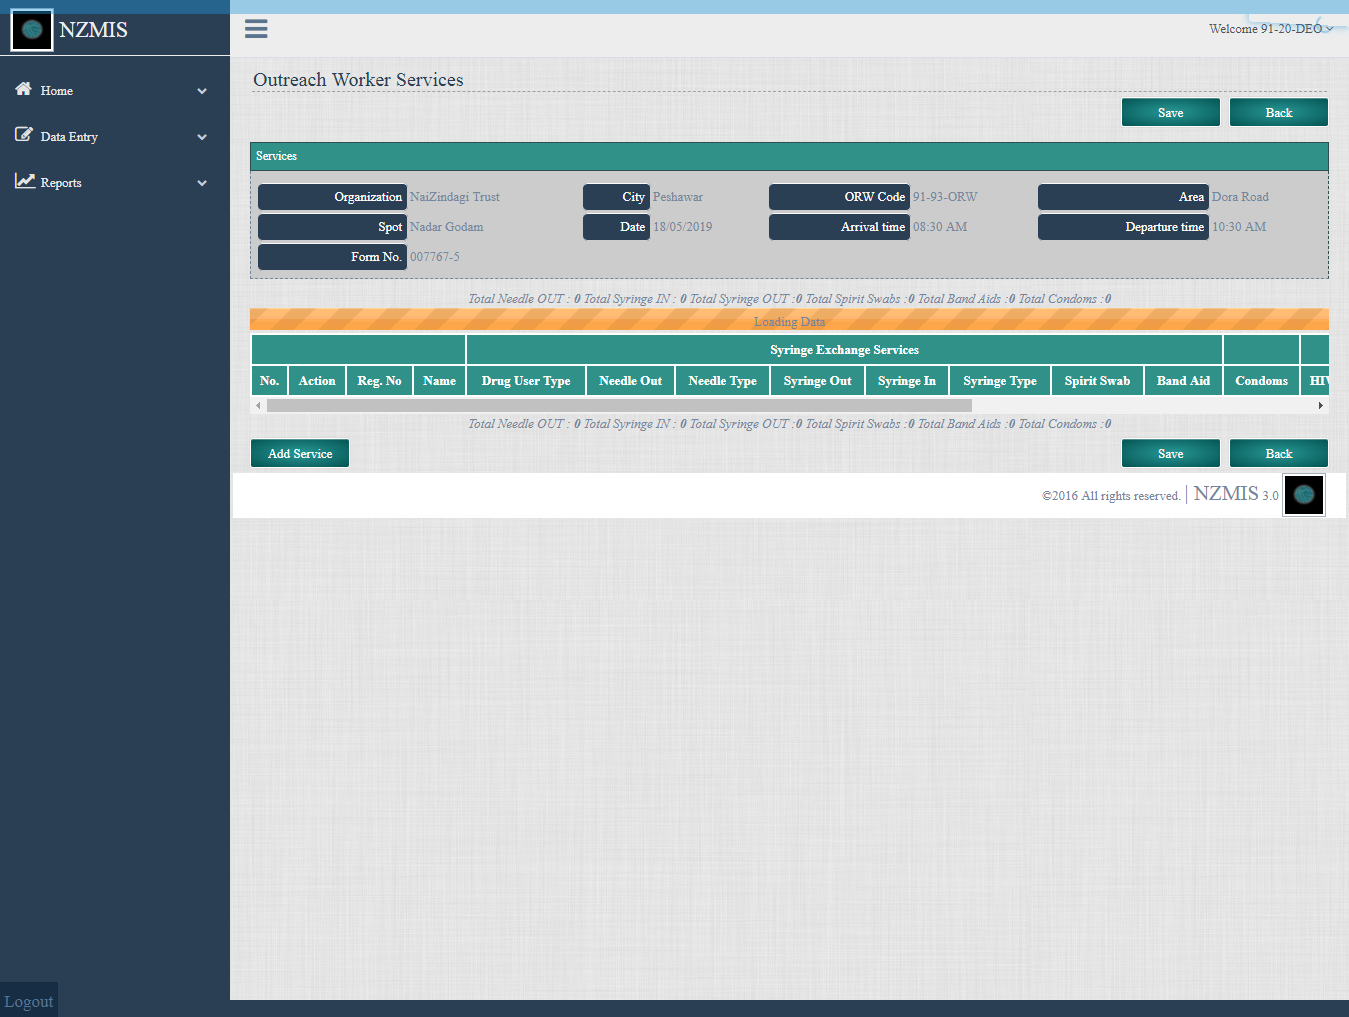
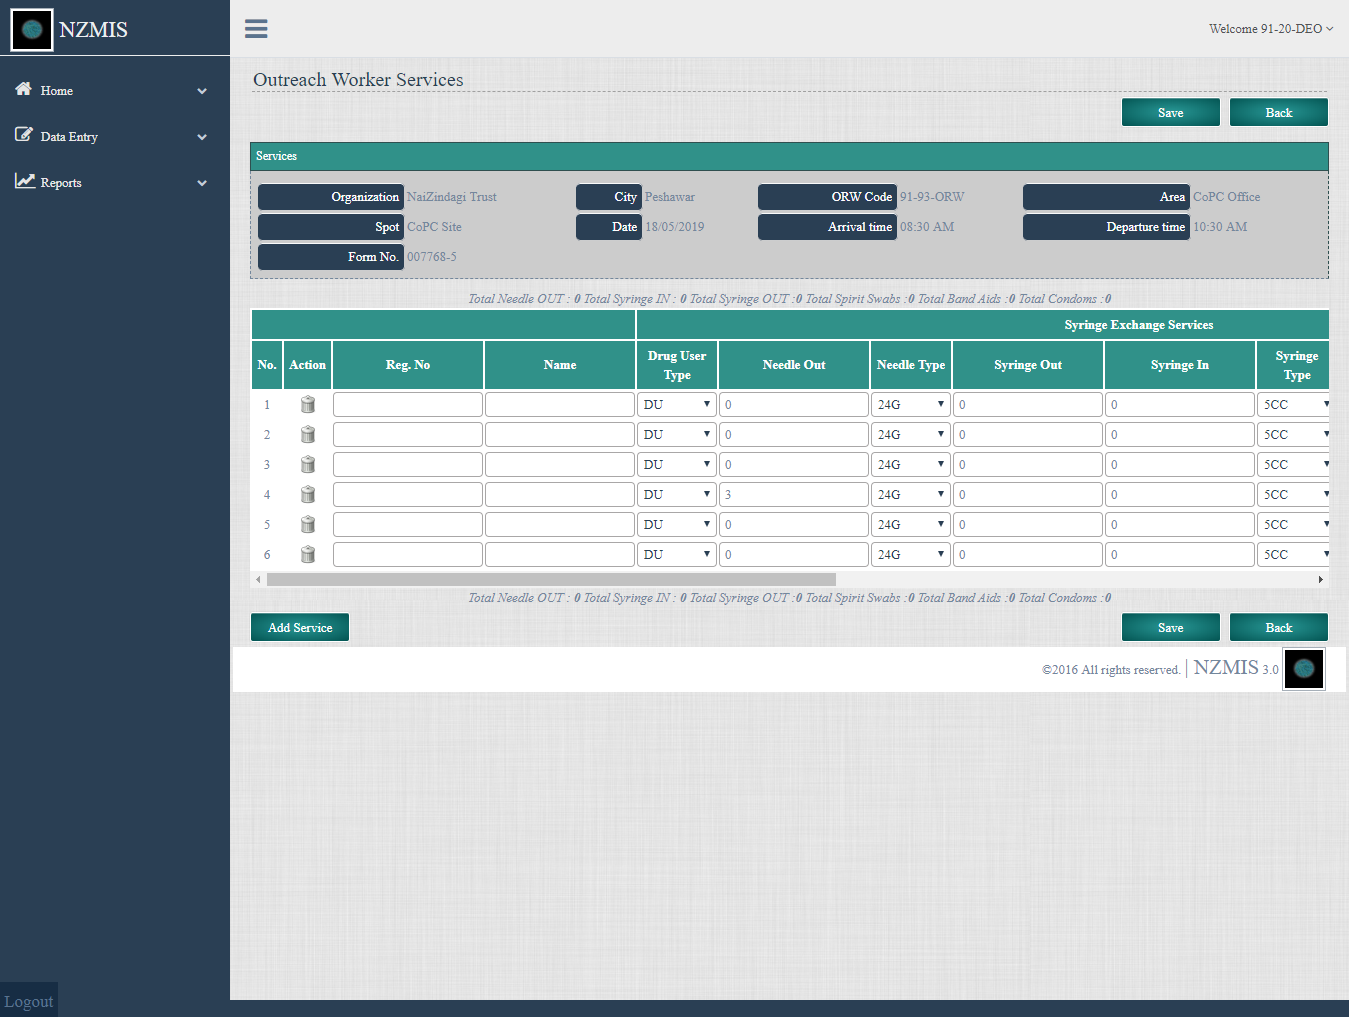
nzmis.js is working

diff --git a/nzmis.js b/nzmis.js
@@ -7,6 +7,7 @@ const BCCServices =require('./BCCServices.js');
     try{
 
         var url ='http://www.nzmis.com/';
+        var url2='secure/OutreachWorkerServices/RegisterEdit2.aspx?ID=1929080&no=6';
         const browser = await puppeteer.launch({headless:false,args: ['--start-maximized']});
         const page= await browser.newPage();
         await page.setViewport({ width: 1600, height: 900});
@@ -17,7 +18,7 @@ const BCCServices =require('./BCCServices.js');
         await page.click('.submit');
         //wait for Dashboard
         await page.waitFor(()=>!!document.querySelector('.countBox'));
-        url=url+'secure/OutreachWorkerServices/RegisterEdit2.aspx?ID=1926731';
+        url=url+url2;
         await page.goto(url);
         // await page.waitFor(2000);
         await page.waitFor('table.grid');
@@ -26,6 +27,7 @@ const BCCServices =require('./BCCServices.js');
             for(i=0; i<el.length; i++){
                 el[i].value=3; 
             }
+        
         });
 //  Now setting Needle Out Values here
         await page.$$eval("input[data-bind='value: SyringeOut']",el=>{
@@ -36,7 +38,7 @@ const BCCServices =require('./BCCServices.js');
 // Setting Syring Type to 3CC
         await page.$$eval("select[name='ctl00$cphRightContent$ddlSringeType']",el=>{
             for(i=0; i<el.length; i++){
-                el[i].value="5CC"; 
+                el[i].value="3CC"; 
             }
         });
 
@@ -80,7 +82,7 @@ const BCCServices =require('./BCCServices.js');
            
         await page.waitFor(2000);
         await page.screenshot({ path: 'nzmisAutomation.png', fullPage: true });
-        await browser.close();
+        // await browser.close();
     }catch(e){
         console.log('our Error',e );
     }

diff --git a/ex5.js b/ex5.js
@@ -42,19 +42,27 @@ const puppeteer = require('puppeteer');
             //   });
             // Wait for the Table/Form to appear
 
-            await page.waitForSelector("input[data-bind='value: NeedleOut']").then(()=>{
+            await page.waitForSelector("input[data-bind='value: NeedleOut']");
+             
+            await page.$$eval("input[data-bind='value: NeedleOut']",el=>{
+                console.log(typeof el);
+                    el[3].value=3;
+
+                
+             
+            });
                 // var el = document.querySelectorAll("input[data-bind='value: NeedleOut']");
                 // for(i=0; i<el.length; i++){
                 //            el[i].value=3; 
 
-             await page.$$eval("input[data-bind='value: NeedleOut']",el=>{
-                        for(i=0; i<el.length; i++){
-                             el[i].value=3; 
-                    }
-                     });
+            //  await page.$$eval("input[data-bind='value: NeedleOut']",el=>{
+            //             for(i=0; i<el.length; i++){
+            //                  el[i].value=3; 
+            //         }
+            //          });
 
-                       }
-            });
+            //            }
+            // });
             // Setting Values for Needle Out
                     // await page.$$eval("input[data-bind='value: NeedleOut']",el=>{
                     //     for(i=0; i<el.length; i++){
